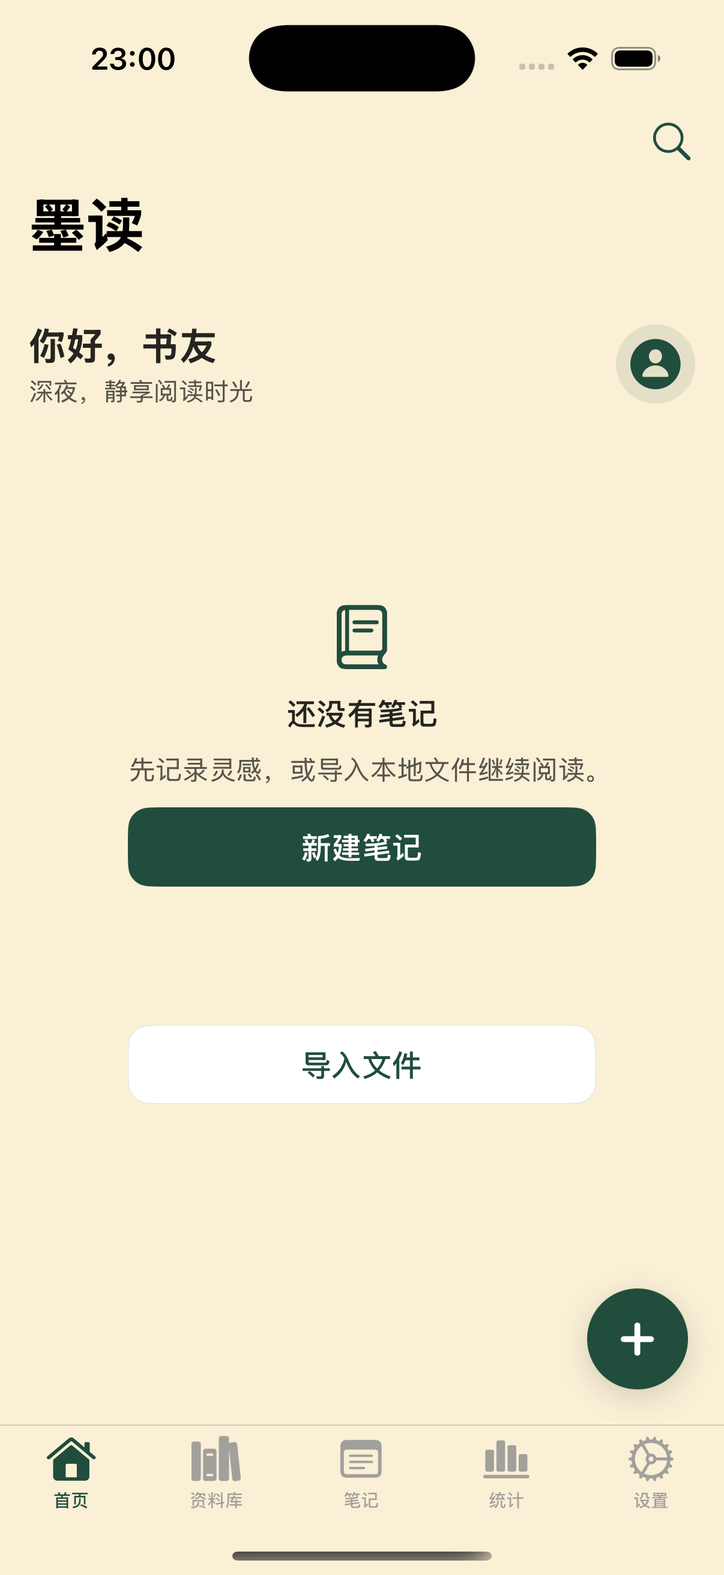
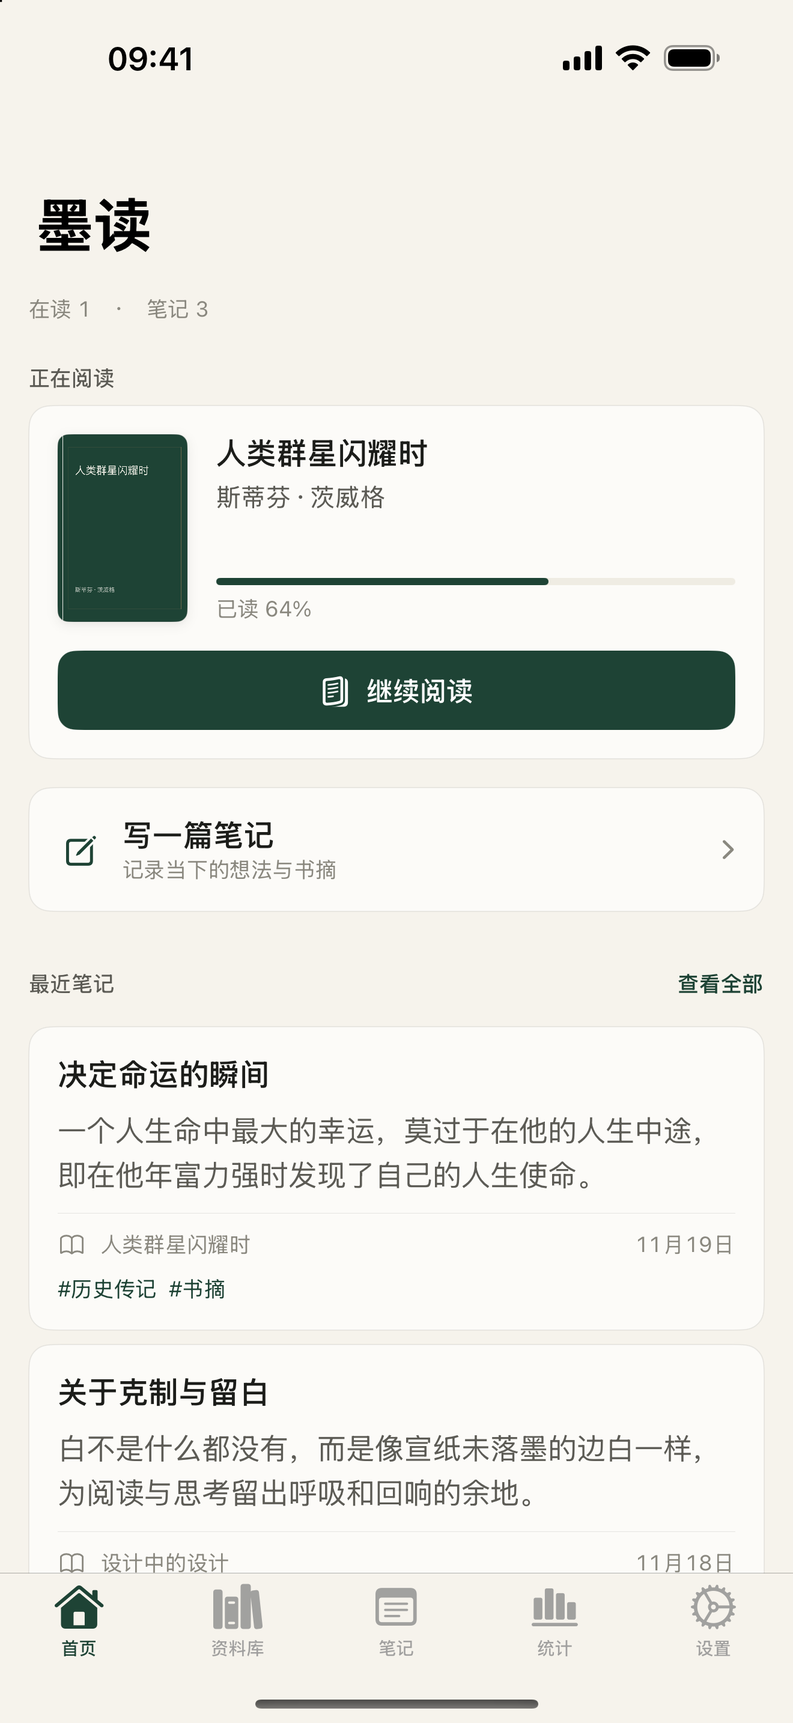
Add files via upload

diff --git a/InkReads/style.css b/InkReads/style.css
@@ -1,7 +1,7 @@
 /* 静态官网不依赖外部字体或脚本，保证移动端及审核访问稳定。 */
-:root{--paper:#f8f6ef;--ink:#203d34;--muted:#667067;--line:#dedfd4;--accent:#aa5d3e}*{box-sizing:border-box}html{scroll-behavior:smooth;scroll-padding-top:30px}body{margin:0;background:var(--paper);color:var(--ink);font-family:-apple-system,BlinkMacSystemFont,"PingFang SC","Microsoft YaHei",sans-serif;-webkit-font-smoothing:antialiased}a{color:inherit;text-decoration:none}a:focus-visible{outline:3px solid var(--accent);outline-offset:6px}a:hover{opacity:.8}.wrap{width:min(1120px,calc(100% - 80px));margin:auto}.skip{position:absolute;left:20px;top:-80px;background:white;padding:12px;z-index:5}.skip:focus{top:12px}header{height:104px;display:flex;align-items:center;justify-content:space-between;border-bottom:1px solid var(--line)}.brand{display:flex;align-items:center;gap:12px;font-size:23px;font-weight:650}.brand img{border-radius:10px}.brand small{font-size:13px;font-weight:400;margin-left:8px;letter-spacing:.05em}nav{display:flex;align-items:center;gap:34px;font-size:14px}.nav-download{border:1px solid #a8b1a5;border-radius:50px;padding:11px 18px}.nav-download span{margin-left:15px}.hero{display:grid;grid-template-columns:1.1fr 1fr;align-items:center;min-height:730px;gap:35px}.eyebrow{font-size:12px;letter-spacing:.18em;margin:0 0 28px;color:var(--accent);font-weight:600}h1{font-family:"Songti SC","Noto Serif CJK SC",serif;font-weight:500;font-size:clamp(48px,5.3vw,70px);line-height:1.28;letter-spacing:-.045em;margin:0 0 26px}h1 span{color:#527365}.lead{font-size:16px;line-height:2;color:var(--muted);margin-bottom:30px}.download{display:inline-flex;align-items:center;gap:16px;padding:15px 23px;background:var(--ink);color:white;border-radius:12px;min-height:64px}.download small{display:block;font-size:10px;letter-spacing:.03em;margin-bottom:2px}.download strong{font-size:18px;font-weight:500}.arrow{margin-left:28px;font-size:21px}.quiet{font-size:11px;color:var(--muted);margin-top:20px;letter-spacing:.1em}.visual{position:relative;height:610px;display:flex;align-items:center;justify-content:center}.orbit{width:450px;height:450px;position:absolute;background:#e9ecdf;border-radius:50%;right:-5px;top:85px}.phone{width:247px;margin:0 0 0 65px;border:7px solid #263b31;border-radius:40px;overflow:hidden;transform:rotate(5deg);background:#f9f0d6;box-shadow:15px 25px 35px #24372b19;z-index:1}.phone img{display:block;width:100%;height:auto}.vertical{position:absolute;right:0;top:40px;writing-mode:vertical-rl;font-size:11px;letter-spacing:.3em;color:var(--muted)}.paper{position:absolute;bottom:53px;left:0;background:#fffdf6;width:245px;padding:27px;z-index:2;box-shadow:0 14px 40px #25352a13;transform:rotate(-6deg);border:1px solid #e4e1d4}.paper-kicker{font-size:9px;letter-spacing:.13em;color:#8a7c66}.paper p{font-family:"Songti SC",serif;font-size:22px;line-height:1.7;margin:20px 0}.paper-line{display:block;width:27px;height:1px;background:#ac7357;margin:16px 0}.paper small{font-size:10px;color:#817c70}.features{padding:65px 0 83px;border-top:1px solid var(--line)}h2{font-family:"Songti SC",serif;font-size:36px;line-height:1.5;font-weight:500;margin:0;letter-spacing:-.03em}.feature-grid{display:grid;grid-template-columns:repeat(3,1fr);gap:52px;margin-top:50px}.number{font-size:11px;letter-spacing:.1em;color:var(--accent)}h3{font-size:21px;font-weight:500;margin:24px 0 15px}.feature-grid p,.privacy-copy p,.support p{color:var(--muted);font-size:14px;line-height:1.95}.privacy{display:grid;grid-template-columns:1fr 1fr;gap:80px;border-top:1px solid var(--line);border-bottom:1px solid var(--line);padding:65px 0}.privacy-copy{align-self:center;max-width:390px}.text-link{display:inline-block;margin-top:18px;font-size:13px;border-bottom:1px solid #9da99e;padding-bottom:8px}.text-link span{margin-left:35px}.support{padding:76px 0;display:flex;align-items:center;justify-content:space-between;gap:25px}.support .eyebrow{margin-bottom:18px}.support p{margin:15px 0 0}.support p a{text-decoration:underline;text-underline-offset:4px}.simple{font-size:14px;gap:25px}footer{padding:26px 0 34px;border-top:1px solid var(--line);display:flex;justify-content:space-between;color:var(--muted);font-size:11px}footer div{display:flex;gap:28px}
+:root{--paper:#f6f3ec;--ink:#1e4335;--muted:#5c5b55;--line:#e4e1d8;--accent:#9e6334}*{box-sizing:border-box}html{scroll-behavior:smooth;scroll-padding-top:30px}body{margin:0;background:var(--paper);color:var(--ink);font-family:-apple-system,BlinkMacSystemFont,"PingFang SC","Microsoft YaHei",sans-serif;-webkit-font-smoothing:antialiased}a{color:inherit;text-decoration:none}a:focus-visible{outline:3px solid var(--accent);outline-offset:6px}a:hover{opacity:.8}.wrap{width:min(1120px,calc(100% - 80px));margin:auto}.skip{position:absolute;left:20px;top:-80px;background:white;padding:12px;z-index:5}.skip:focus{top:12px}header{height:104px;display:flex;align-items:center;justify-content:space-between;border-bottom:1px solid var(--line)}.brand{display:flex;align-items:center;gap:12px;font-size:23px;font-weight:650}.brand img{border-radius:10px}.brand small{font-size:13px;font-weight:400;margin-left:8px;letter-spacing:.05em}nav{display:flex;align-items:center;gap:34px;font-size:14px}.nav-download{border:1px solid #a8b1a5;border-radius:50px;padding:11px 18px}.nav-download span{margin-left:15px}.hero{display:grid;grid-template-columns:1.1fr 1fr;align-items:center;min-height:730px;gap:35px}.eyebrow{font-size:12px;letter-spacing:.18em;margin:0 0 28px;color:var(--accent);font-weight:600}h1{font-family:"Songti SC","Noto Serif CJK SC",serif;font-weight:500;font-size:clamp(48px,5.3vw,70px);line-height:1.28;letter-spacing:-.045em;margin:0 0 26px}h1 span{color:#527365}.lead{font-size:16px;line-height:2;color:var(--muted);margin-bottom:30px}.download{display:inline-flex;align-items:center;gap:16px;padding:15px 23px;background:var(--ink);color:white;border-radius:12px;min-height:64px}.download small{display:block;font-size:10px;letter-spacing:.03em;margin-bottom:2px}.download strong{font-size:18px;font-weight:500}.arrow{margin-left:28px;font-size:21px}.quiet{font-size:11px;color:var(--muted);margin-top:20px;letter-spacing:.1em}.visual{position:relative;height:610px;display:flex;align-items:center;justify-content:center}.orbit{width:450px;height:450px;position:absolute;background:#efece3;border-radius:50%;right:-5px;top:85px}.phone{width:247px;margin:0 0 0 65px;border:7px solid #1c1d1a;border-radius:40px;overflow:hidden;transform:rotate(5deg);background:#fcfbf8;box-shadow:15px 25px 35px #1c1d1a14;z-index:1}.phone img{display:block;width:100%;height:auto}.features{padding:65px 0 83px;border-top:1px solid var(--line)}h2{font-family:"Songti SC",serif;font-size:36px;line-height:1.5;font-weight:500;margin:0;letter-spacing:-.03em}.feature-grid{display:grid;grid-template-columns:repeat(3,1fr);gap:52px;margin-top:50px}.number{font-size:11px;letter-spacing:.1em;color:var(--accent)}h3{font-size:21px;font-weight:500;margin:24px 0 15px}.feature-grid p,.privacy-copy p,.support p{color:var(--muted);font-size:14px;line-height:1.95}.privacy{display:grid;grid-template-columns:1fr 1fr;gap:80px;border-top:1px solid var(--line);border-bottom:1px solid var(--line);padding:65px 0}.privacy-copy{align-self:center;max-width:390px}.text-link{display:inline-block;margin-top:18px;font-size:13px;border-bottom:1px solid #9da99e;padding-bottom:8px}.text-link span{margin-left:35px}.support{padding:76px 0;display:flex;align-items:center;justify-content:space-between;gap:25px}.support .eyebrow{margin-bottom:18px}.support p{margin:15px 0 0}.support p a{text-decoration:underline;text-underline-offset:4px}.simple{font-size:14px;gap:25px}footer{padding:26px 0 34px;border-top:1px solid var(--line);display:flex;justify-content:space-between;color:var(--muted);font-size:11px}footer div{display:flex;gap:28px}
 /* 窄屏按阅读顺序堆叠，避免手机示意图遮挡正文或下载入口。 */
-@media(max-width:760px){.wrap{width:calc(100% - 40px)}header{height:82px}.brand{font-size:20px}.brand small{display:none}nav{gap:18px;font-size:12px}.nav-download{padding:9px 12px}.nav-download span{display:none}.hero{grid-template-columns:1fr;gap:0;padding-top:52px;min-height:0}.eyebrow{margin-bottom:22px}h1{font-size:54px}.lead{font-size:14px}.visual{height:550px;max-width:430px;width:100%;margin:15px auto 0}.orbit{width:340px;height:340px;right:0;top:85px}.phone{width:218px;margin-left:60px}.paper{width:212px;bottom:36px;padding:22px}.paper p{font-size:20px}.vertical{right:2px;top:20px}.features{padding:45px 0}.feature-grid{grid-template-columns:1fr;gap:28px;margin-top:32px}.feature-grid article{border-bottom:1px solid var(--line);padding-bottom:20px}.feature-grid article:last-child{border:0;padding:0}h2{font-size:29px}h3{margin-top:14px}.feature-grid p{margin-bottom:0}.privacy{grid-template-columns:1fr;gap:18px;padding:45px 0}.support{align-items:flex-start;flex-direction:column;padding:45px 0;gap:25px}footer{gap:20px;flex-direction:column}.vertical{display:none}}@media(prefers-reduced-motion:reduce){html{scroll-behavior:auto}}
+@media(max-width:760px){.wrap{width:calc(100% - 40px)}header{height:82px}.brand{font-size:20px}.brand small{display:none}nav{gap:18px;font-size:12px}.nav-download{padding:9px 12px}.nav-download span{display:none}.hero{grid-template-columns:1fr;gap:0;padding-top:52px;min-height:0}.eyebrow{margin-bottom:22px}h1{font-size:54px}.lead{font-size:14px}.visual{height:550px;max-width:430px;width:100%;margin:15px auto 0}.orbit{width:340px;height:340px;right:0;top:85px}.phone{width:218px;margin-left:60px}.features{padding:45px 0}.feature-grid{grid-template-columns:1fr;gap:28px;margin-top:32px}.feature-grid article{border-bottom:1px solid var(--line);padding-bottom:20px}.feature-grid article:last-child{border:0;padding:0}h2{font-size:29px}h3{margin-top:14px}.feature-grid p{margin-bottom:0}.privacy{grid-template-columns:1fr;gap:18px;padding:45px 0}.support{align-items:flex-start;flex-direction:column;padding:45px 0;gap:25px}footer{gap:20px;flex-direction:column}}@media(prefers-reduced-motion:reduce){html{scroll-behavior:auto}}
 /* English copy wraps naturally alongside its localized app preview. */
 html[lang="en"] h1{font-size:clamp(42px,4.3vw,58px);letter-spacing:-.035em}html[lang="en"] .eyebrow{letter-spacing:.12em}html[lang="en"] .quiet{letter-spacing:0}
 @media(max-width:760px){header{height:auto;min-height:82px;flex-wrap:wrap;padding:18px 0;gap:16px}nav{flex-wrap:wrap;gap:16px}.language-switch{font-size:12px}html[lang="en"] h1{font-size:45px}html[lang="en"] .visual{margin-bottom:20px}}

diff --git a/InkReads/index.html b/InkReads/index.html
@@ -2,9 +2,9 @@
 <html lang="zh-CN">
 <head>
 <meta charset="utf-8"><meta name="viewport" content="width=device-width,initial-scale=1">
-<title>墨读 InkReads · 让读过的，留在生活里</title>
-<meta name="description" content="墨读 InkReads 是一款阅读与笔记应用。整理书籍、记录心得、保存书摘，让每一次阅读都有迹可循。前往 App Store 下载。">
-<meta name="theme-color" content="#f8f6ef"><link rel="icon" href="assets/app-icon.png"><link rel="stylesheet" href="style.css">
+<title>墨读 InkReads · 阅读笔记</title>
+<meta name="description" content="墨读是阅读笔记应用。整理书架、写笔记、做书摘卡片。内容保存在你的手机里。前往 App Store 下载。">
+<meta name="theme-color" content="#f6f3ec"><link rel="icon" href="assets/app-icon.png"><link rel="stylesheet" href="style.css">
 <link rel="stylesheet" href="language.css"><script src="language.js" defer></script>
 </head>
 <body>
@@ -12,11 +12,12 @@
 <header class="wrap"><a class="brand" href="./" aria-label="墨读官网首页"><img src="assets/app-icon.png" width="40" height="40" alt=""><span>墨读 <small>InkReads</small></span></a><nav aria-label="主导航"><a href="#features">功能</a><a href="#support">支持</a><a class="nav-download" href="https://apps.apple.com/cn/app/id6743938509">下载墨读 <span aria-hidden="true">↗</span></a><div class="language-switch" role="group" aria-label="语言"><a href="index.html" lang="zh-CN" hreflang="zh-CN" aria-current="page">中文</a><span aria-hidden="true">/</span><a href="index-en.html" lang="en" hreflang="en">English</a></div></nav></header>
 <main id="main">
 <section class="hero wrap">
-<div class="intro"><p class="eyebrow">给阅读，留一点空间</p><h1>让读过的，<br>留在<span>生活里。</span></h1><p class="lead">一本书，一段话，一个忽然出现的念头。<br>用墨读收藏阅读中的片刻，慢慢积累属于你的思考。</p><a class="download" href="https://apps.apple.com/cn/app/id6743938509"><svg width="23" height="25" viewBox="0 0 24 26" fill="none" aria-hidden="true"><path d="M15.8 1c.2 2-1.4 4-3.3 4.3C12.2 3.4 14 1.3 15.8 1ZM19.8 18c-.6 1.5-2.3 4.8-4.2 4.8-1.2 0-1.6-.8-3.3-.8s-2.2.8-3.4.8C6.6 22.8 3 17.3 3 12.5c0-3.5 2.1-5.7 4.8-5.7 1.6 0 2.7.9 4 .9 1.1 0 2.4-.9 4.1-.9 1.4 0 2.9.7 3.8 1.8-3.2 1.8-3.3 6.7.1 8.3v1.1Z" fill="currentColor"/></svg><span><small>在 App Store</small><strong>下载墨读</strong></span><span class="arrow" aria-hidden="true">↗</span></a><p class="quiet">阅读笔记 · 书籍管理 · 书摘分享</p></div>
-<div class="visual"><div class="orbit" aria-hidden="true"></div><p class="vertical" aria-hidden="true">阅读有痕 · 思考有处</p><figure class="phone"><img src="assets/app-home.png" width="1206" height="2622" alt="墨读应用首页：新建笔记、导入文件，以及资料库、笔记、统计入口"></figure><div class="paper"><span class="paper-kicker">阅读手记 / 示例</span><p>读过的文字，<br>终会成为自己的光。</p><span class="paper-line"></span><small>记录此刻的想法</small></div></div>
+<div class="intro"><p class="eyebrow">阅读笔记</p><h1>读书笔记，<br>记在手机里。</h1><p class="lead">整理书架、写读书笔记、做成书摘卡片。内容都保存在你自己的手机里。<br>这次把界面整体改了一遍，看起来更干净。</p><a class="download" href="https://apps.apple.com/cn/app/id6743938509"><svg width="23" height="25" viewBox="0 0 24 26" fill="none" aria-hidden="true"><path d="M15.8 1c.2 2-1.4 4-3.3 4.3C12.2 3.4 14 1.3 15.8 1ZM19.8 18c-.6 1.5-2.3 4.8-4.2 4.8-1.2 0-1.6-.8-3.3-.8s-2.2.8-3.4.8C6.6 22.8 3 17.3 3 12.5c0-3.5 2.1-5.7 4.8-5.7 1.6 0 2.7.9 4 .9 1.1 0 2.4-.9 4.1-.9 1.4 0 2.9.7 3.8 1.8-3.2 1.8-3.3 6.7.1 8.3v1.1Z" fill="currentColor"/></svg><span><small>在 App Store</small><strong>下载墨读</strong></span><span class="arrow" aria-hidden="true">↗</span></a><p class="quiet">阅读笔记 · 书架 · 书摘卡片</p></div>
+<div class="visual"><div class="orbit" aria-hidden="true"></div><figure class="phone"><img src="assets/app-home.png" width="1320" height="2868" alt="墨读首页：正在阅读的书、写笔记入口和最近笔记"></figure></div>
 </section>
-<section class="features wrap" id="features"><div class="section-title"><p class="eyebrow">从阅读，到自己的理解</p><h2>把好内容留下来，<br>也把自己的想法留下来。</h2></div><div class="feature-grid"><article><span class="number">01 / 整理</span><h3>书籍，各有其位。</h3><p>整理你的书籍，把阅读笔记与书籍关联。下次回顾时，从一本书找到当时的思考。</p></article><article><span class="number">02 / 记录</span><h3>灵感，随手记下。</h3><p>记录书摘、心得与问题，用标签分类，通过搜索找回那些值得再次读起的文字。</p></article><article><span class="number">03 / 分享</span><h3>好句子，值得再读。</h3><p>把喜欢的文字制作成书摘卡片，保存到相册，或通过系统分享与你在意的人交流。</p></article></div></section>
-<section class="privacy wrap"><div><p class="eyebrow">安心记录，自在阅读</p><h2>你的阅读，<br>由你自己保管。</h2></div><div class="privacy-copy"><p>墨读采用本地优先的方式保存阅读内容，无需注册账号。你可以在应用内导出备份，自行保管珍贵的笔记。</p><a class="text-link" href="privacy-policy.html">了解隐私政策 <span aria-hidden="true">↗</span></a></div></section>
-<section class="support wrap" id="support"><div><p class="eyebrow">我们在这里</p><h2>开始下一页。</h2><p>使用问题、功能建议，或只是想聊聊墨读。<br>欢迎来信：<a href="mailto:inkreads@163.com">inkreads@163.com</a></p></div><a class="download simple" href="https://apps.apple.com/cn/app/id6743938509">前往 App Store 下载 <span aria-hidden="true">↗</span></a></section>
+<section class="features wrap" id="features"><div class="section-title"><p class="eyebrow">能做什么</p><h2>管书、记笔记、<br>还能做成卡片。</h2></div><div class="feature-grid"><article><span class="number">01 / 整理</span><h3>把书放进资料库。</h3><p>笔记可以关联到对应的书。以后打开一本书，就能看到当时写的内容。</p></article><article><span class="number">02 / 记录</span><h3>摘录和想法先记下来。</h3><p>可以用标签分类，也可以搜索。需要时再把那句话找回来。</p></article><article><span class="number">03 / 分享</span><h3>做成书摘卡片。</h3><p>保存到相册，或用系统分享发出去。卡片怎么做，由你自己定。</p></article></div></section>
+<section class="privacy wrap"><div><p class="eyebrow">本地保存</p><h2>笔记留在你的手机里。</h2></div><div class="privacy-copy"><p>墨读不用注册。阅读内容保存在本机，你可以导出备份，自己保管。</p><a class="text-link" href="privacy-policy.html">了解隐私政策 <span aria-hidden="true">↗</span></a></div></section>
+<section class="support wrap" id="support"><div><p class="eyebrow">联系</p><h2>有问题可以写信。</h2><p>使用问题或功能建议，发到 <a href="mailto:inkreads@163.com">inkreads@163.com</a></p></div><a class="download simple" href="https://apps.apple.com/cn/app/id6743938509">前往 App Store 下载 <span aria-hidden="true">↗</span></a></section>
 </main><footer class="wrap"><span>© 2026 墨读 InkReads</span><div><a href="privacy-policy.html">隐私政策</a><a href="mailto:inkreads@163.com">联系我们</a><a href="https://apps.apple.com/cn/app/id6743938509">App Store</a></div></footer>
-</body></html>
+</body>
+</html>

diff --git a/InkReads/index-en.html b/InkReads/index-en.html
@@ -2,9 +2,9 @@
 <html lang="en">
 <head>
 <meta charset="utf-8"><meta name="viewport" content="width=device-width,initial-scale=1">
-<title>InkReads · Keep what you read close</title>
-<meta name="description" content="InkReads is a reading and note-taking app. Organize books, capture your thoughts, and share passages. Download on the App Store.">
-<meta name="theme-color" content="#f8f6ef"><link rel="icon" href="assets/app-icon.png"><link rel="stylesheet" href="style.css">
+<title>InkReads · Reading notes</title>
+<meta name="description" content="InkReads is a reading notes app. Organize books, write notes, and make quote cards. Your content stays on your phone. Download on the App Store.">
+<meta name="theme-color" content="#f6f3ec"><link rel="icon" href="assets/app-icon.png"><link rel="stylesheet" href="style.css">
 <link rel="stylesheet" href="language.css"><script src="language.js" defer></script>
 </head>
 <body>
@@ -12,11 +12,12 @@
 <header class="wrap"><a class="brand" href="index-en.html" aria-label="InkReads home"><img src="assets/app-icon.png" width="40" height="40" alt=""><span>InkReads</span></a><nav aria-label="Main navigation"><a href="#features">Features</a><a href="#support">Support</a><a class="nav-download" href="https://apps.apple.com/cn/app/id6743938509">Get InkReads <span aria-hidden="true">↗</span></a><div class="language-switch" role="group" aria-label="Language"><a href="index.html" lang="zh-CN" hreflang="zh-CN">中文</a><span aria-hidden="true">/</span><a href="index-en.html" lang="en" hreflang="en" aria-current="page">English</a></div></nav></header>
 <main id="main">
 <section class="hero wrap">
-<div class="intro"><p class="eyebrow">MAKE ROOM FOR READING</p><h1>Keep what you read<br><span>close to you.</span></h1><p class="lead">A book. A passage. A thought worth keeping.<br>Capture small moments of reading and make room for your own ideas.</p><a class="download" href="https://apps.apple.com/cn/app/id6743938509"><svg width="23" height="25" viewBox="0 0 24 26" fill="none" aria-hidden="true"><path d="M15.8 1c.2 2-1.4 4-3.3 4.3C12.2 3.4 14 1.3 15.8 1ZM19.8 18c-.6 1.5-2.3 4.8-4.2 4.8-1.2 0-1.6-.8-3.3-.8s-2.2.8-3.4.8C6.6 22.8 3 17.3 3 12.5c0-3.5 2.1-5.7 4.8-5.7 1.6 0 2.7.9 4 .9 1.1 0 2.4-.9 4.1-.9 1.4 0 2.9.7 3.8 1.8-3.2 1.8-3.3 6.7.1 8.3v1.1Z" fill="currentColor"/></svg><span><small>Download on the</small><strong>Get InkReads</strong></span><span class="arrow" aria-hidden="true">↗</span></a><p class="quiet">Reading notes · Your bookshelf · Quote cards</p></div>
-<div class="visual"><div class="orbit" aria-hidden="true"></div><p class="vertical" aria-hidden="true">READ. REFLECT. REMEMBER.</p><figure class="phone"><img src="assets/app-home-en.png" width="851" height="1848" alt="English-language preview of InkReads home, with new note, file import, library, notes, and statistics controls"></figure><div class="paper"><span class="paper-kicker">READING NOTE / EXAMPLE</span><p>Words we read<br>light our way.</p><span class="paper-line"></span><small>Keep a thought from today</small></div></div>
+<div class="intro"><p class="eyebrow">Reading notes</p><h1>Reading notes,<br>kept on your phone.</h1><p class="lead">Organize a bookshelf, write reading notes, and make quote cards. Everything stays on your phone.<br>This version has a major interface update. The app looks cleaner.</p><a class="download" href="https://apps.apple.com/cn/app/id6743938509"><svg width="23" height="25" viewBox="0 0 24 26" fill="none" aria-hidden="true"><path d="M15.8 1c.2 2-1.4 4-3.3 4.3C12.2 3.4 14 1.3 15.8 1ZM19.8 18c-.6 1.5-2.3 4.8-4.2 4.8-1.2 0-1.6-.8-3.3-.8s-2.2.8-3.4.8C6.6 22.8 3 17.3 3 12.5c0-3.5 2.1-5.7 4.8-5.7 1.6 0 2.7.9 4 .9 1.1 0 2.4-.9 4.1-.9 1.4 0 2.9.7 3.8 1.8-3.2 1.8-3.3 6.7.1 8.3v1.1Z" fill="currentColor"/></svg><span><small>Download on the</small><strong>Get InkReads</strong></span><span class="arrow" aria-hidden="true">↗</span></a><p class="quiet">Notes · Bookshelf · Quote cards</p></div>
+<div class="visual"><div class="orbit" aria-hidden="true"></div><figure class="phone"><img src="assets/app-home-en.png" width="1320" height="2868" alt="InkReads home: the book you are reading, a write-a-note shortcut, and recent notes"></figure></div>
 </section>
-<section class="features wrap" id="features"><div class="section-title"><p class="eyebrow">FROM WORDS TO YOUR OWN IDEAS</p><h2>Keep the words that matter.<br>And the thoughts they inspire.</h2></div><div class="feature-grid"><article><span class="number">01 / ORGANIZE</span><h3>A place for every book.</h3><p>Organize your books and connect notes to each one. Return to a book and rediscover what it made you think.</p></article><article><span class="number">02 / CAPTURE</span><h3>Catch a passing thought.</h3><p>Save passages, reflections, and questions. Organize them with tags and search for the words worth revisiting.</p></article><article><span class="number">03 / SHARE</span><h3>Good words travel well.</h3><p>Turn your favorite passages into quote cards. Save them to Photos or share them with someone through the system share sheet.</p></article></div></section>
-<section class="privacy wrap"><div><p class="eyebrow">YOUR NOTES, IN YOUR HANDS</p><h2>Your reading.<br>Yours to keep.</h2></div><div class="privacy-copy"><p>InkReads stores your reading content locally, with no account required. Export a backup in the app and keep your notes safe yourself.</p><a class="text-link" href="privacy-policy-en.html">Read our privacy policy <span aria-hidden="true">↗</span></a></div></section>
-<section class="support wrap" id="support"><div><p class="eyebrow">GET IN TOUCH</p><h2>Turn to the next page.</h2><p>Questions, suggestions, or a thought about InkReads?<br>Write to us: <a href="mailto:inkreads@163.com">inkreads@163.com</a></p></div><a class="download simple" href="https://apps.apple.com/cn/app/id6743938509">Download on the App Store <span aria-hidden="true">↗</span></a></section>
+<section class="features wrap" id="features"><div class="section-title"><p class="eyebrow">What it does</p><h2>Books, notes,<br>and quote cards.</h2></div><div class="feature-grid"><article><span class="number">01 / Books</span><h3>Keep books in one place.</h3><p>Link notes to the book they came from. Open a book later and find what you wrote.</p></article><article><span class="number">02 / Notes</span><h3>Save a passage or a thought.</h3><p>Tag notes, then search when you need that line again.</p></article><article><span class="number">03 / Cards</span><h3>Make a quote card.</h3><p>Save it to Photos, or share it with the system share sheet. You choose how it looks.</p></article></div></section>
+<section class="privacy wrap"><div><p class="eyebrow">Stored on your phone</p><h2>Your notes stay on your device.</h2></div><div class="privacy-copy"><p>No account. Reading content is stored on your phone. You can export a backup and keep it yourself.</p><a class="text-link" href="privacy-policy-en.html">Read the privacy policy <span aria-hidden="true">↗</span></a></div></section>
+<section class="support wrap" id="support"><div><p class="eyebrow">Contact</p><h2>Send us an email.</h2><p>Questions or suggestions: <a href="mailto:inkreads@163.com">inkreads@163.com</a></p></div><a class="download simple" href="https://apps.apple.com/cn/app/id6743938509">Download on the App Store <span aria-hidden="true">↗</span></a></section>
 </main><footer class="wrap"><span>© 2026 InkReads</span><div><a href="privacy-policy-en.html">Privacy policy</a><a href="mailto:inkreads@163.com">Contact us</a><a href="https://apps.apple.com/cn/app/id6743938509">App Store</a></div></footer>
-</body></html>
+</body>
+</html>
